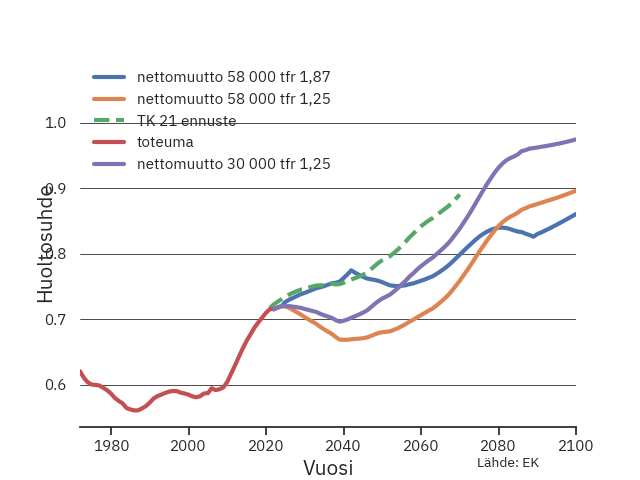
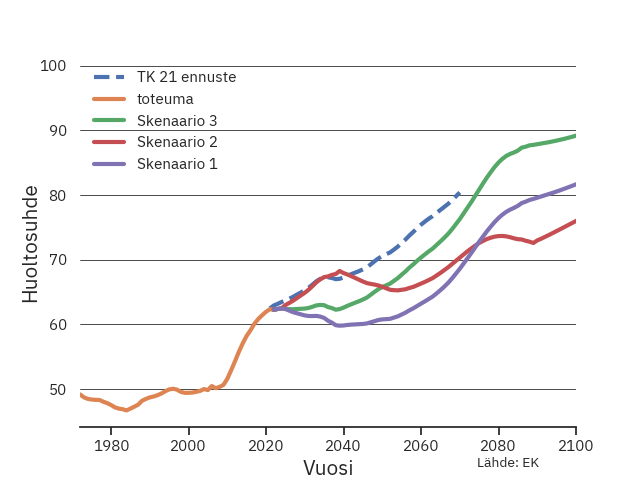
9

Changed region(s): [[0.0312, 0.3438, 0.9062, 0.875], [0.0625, 0.125, 0.9062, 0.375], [0.0625, 0.125, 0.125, 0.1562]]

diff --git a/_posts/2024-4-3-väestörakenne.md b/_posts/2024-4-3-väestörakenne.md
@@ -158,15 +158,20 @@ Ulkomaalaistaustaisten määrä Suomessa tulee kaikissa kolmessa skenaariossa ka
 3.4 Väestöllinen huoltosuhde
 ---
 
-Korkea syntyvyys ja suuri nettomaahanmuutto parantaa vanhushuoltosuhdetta (Kuvio 12), mutta ei vanhushuoltosuhdetta aluksi niinkään (Kuvio 13). Tämä johtuu siitä, että
+Vanhushuoltosuhde tarkoittaa 65 vuotta täyttäneiden lukumäärän suhdetta 15-64 -vuotiden määrään. 
+Väestöllinen huoltosuhde tarkoittaa vanhushuoltosuhdetta lisättynä alle 15-vuotiaiden lukumäärän suhteella 15-64 -vuotiden määrään. 
+Luvut kertovat, kuinka monta huollettavaa on sataa työikäistä kohden.
+
+![Tuotot](/images/migr/vertailu_vanhushuoltosuhde.png)<br>
+_Kuvio 12. Vanhushuoltosuhde_
+
+Korkea syntyvyys ja suuri nettomaahanmuutto parantaa vanhushuoltosuhdetta (Kuvio 12), mutta ei huoltosuhdetta aluksi niinkään (Kuvio 13). Tämä johtuu siitä, että
 huoltosuhdetta parantaa suurempi työikäisten määrä, mutta heikentää suurempi lasten määrä. Vanhushuoltosuhteessa näkyy vain suurempi työikäisten määrä. Samasta syystä johtuen skenaarioiden 3 pienempi nettomaahanmuutto näyttää huoltosuhteella mitattuna paremmalta pitkään kuin skenaarion 2 korkeampi syntyvyys ja korkeampi nettomaahanmuutto. Cross-over tapahtuu vasta 2050-luvulla. 
 
 ![Tuotot](/images/migr/vertailu_huoltosuhde.png)<br>
-_Kuvio 12. Vanhushuoltosuhde_
-
-![Tuotot](/images/migr/vertailu_vanhushuoltosuhde.png)<br>
 _Kuvio 13. Väestöllinen huoltosuhde skenaarioissa_
 
+Verrattuna Tilastokeskuksen väestöennusteeseen 2021 sekä huoltosuhde että vanhushuoltosuhde näyttävät kehittyvän positiivisemmin. Tämä on seurausta aiempaa matalammasta syntyvyydestä ja suuremmasta nettomaahanmuutosta. Pitkällä aikavälilä erityisesti syntyvyyden lasku heikentää pitkällä aikavälillä.
 
 4 Seuraukset
 ===
